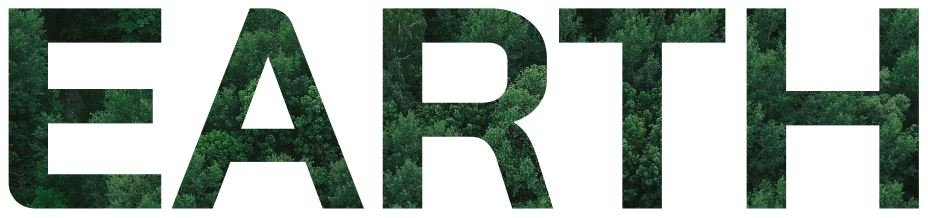
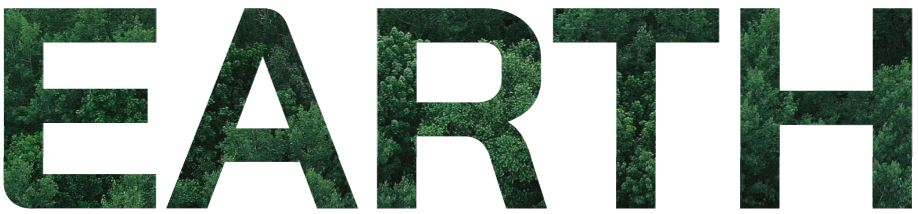
0319 / 0434

Changed region(s): [[0.0, 0.028, 1.0, 0.9813]]

diff --git a/css/index_style.css b/css/index_style.css
@@ -148,17 +148,20 @@ nav a:hover{
 
 .title1 img{
     padding-left: 20%;
-    width: 330px;
+        height: 80px;
+
 }
 
 .title2 img{
     padding-left: 33%;
-    width: 330px;
+        height: 80px;
+
 }
 
 .title3 img{
     padding-left: 46%; 
-    width: 330px;   
+        height: 80px;
+   
 }
 
 .head-text {
